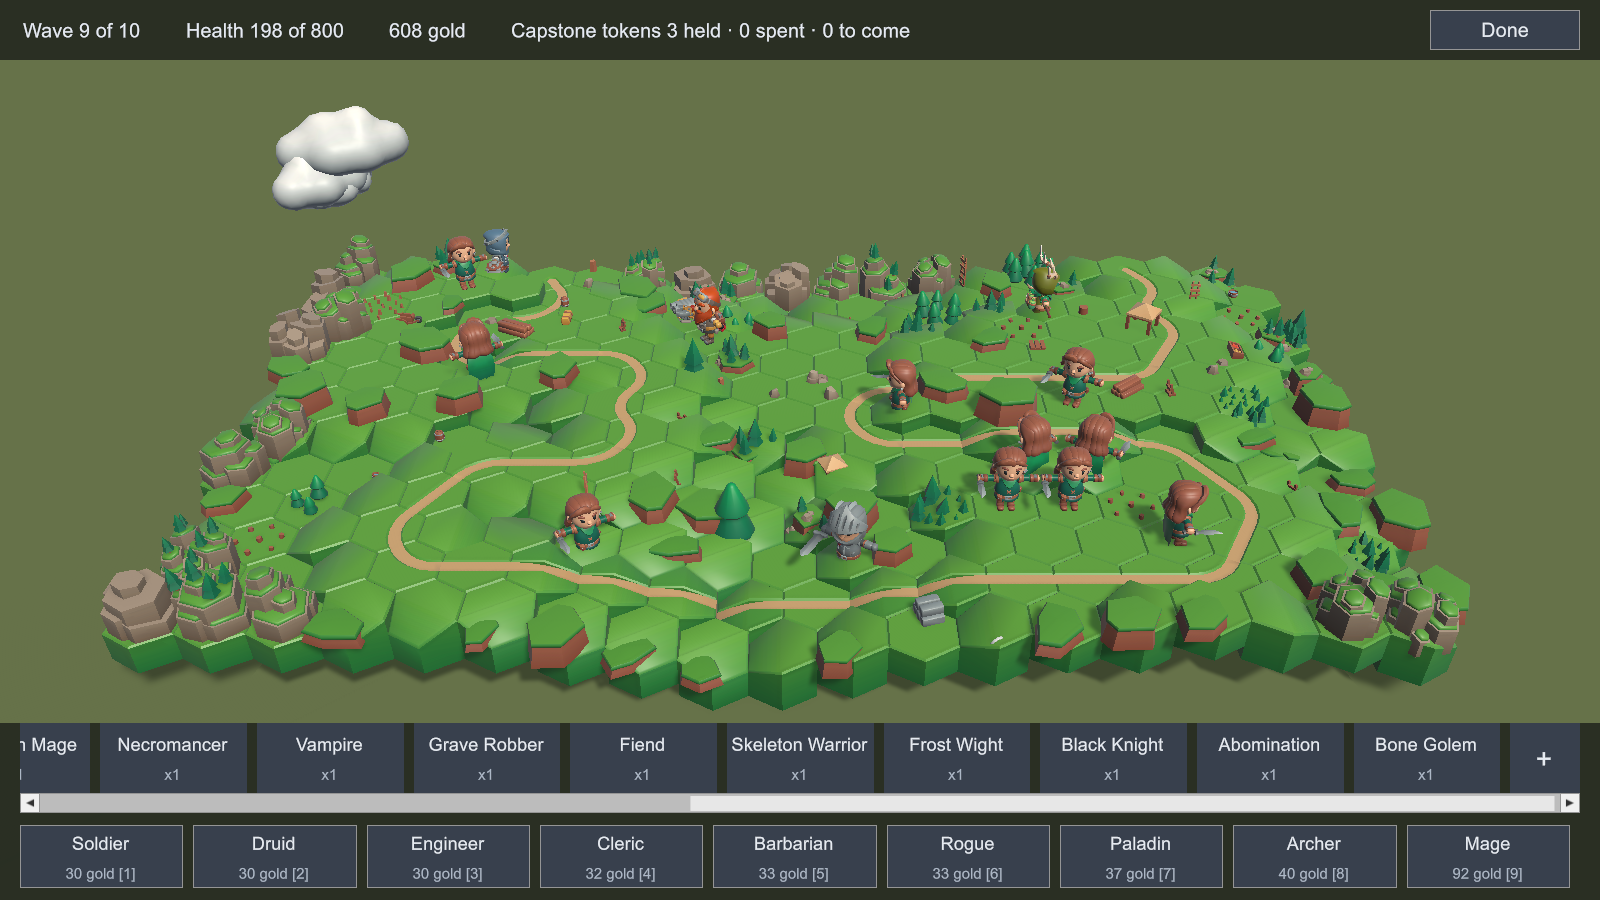
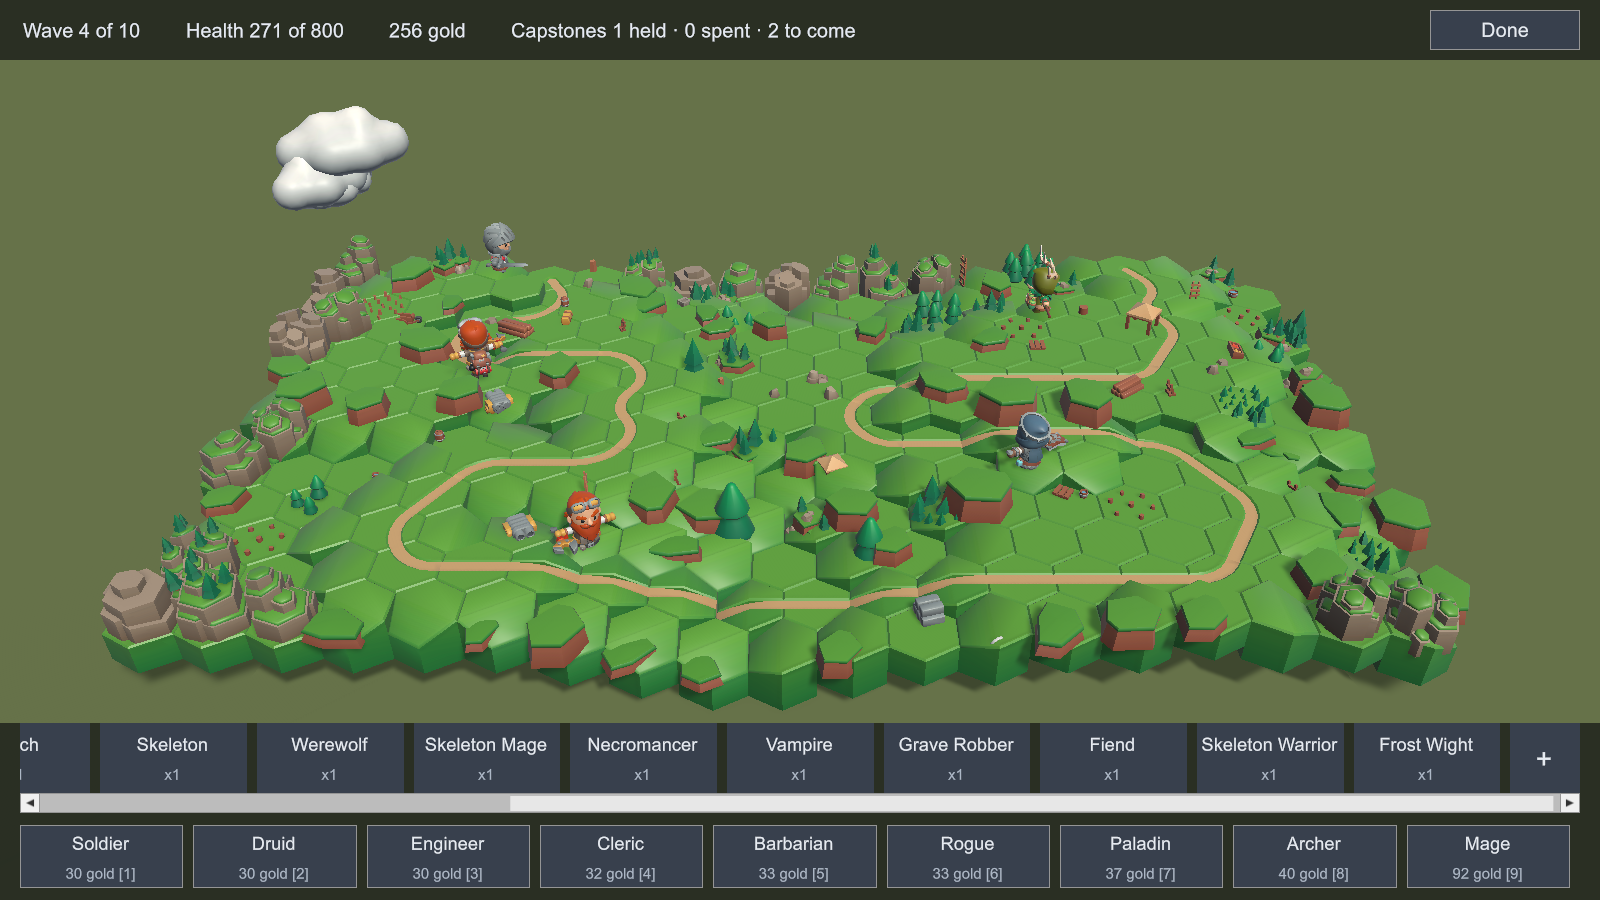
The five overflow sheets are re-shot at wave 4, the last round the sim's own bot composes, and the docs gate is green again
check-docs.ps1 has been red on main since 3459450d: the five sheets in
docs/chrome/overflows/ were drawn from content 2F5438C884EF6856 and
ae3b5922 moved content/units.txt to 0D3C9E832B11C66C. That commit could
not re-capture them -- capture-chrome-overflows.ps1 plays
CoverThenUpgradeBot forward to wave 9, and under the signed windup and
backswing table the bot loses the board committing wave 4 (0 of 800) --
and #297 left three options open: exempt the five as decision records,
stay red until a run reaches wave 9, or re-shoot at wave 4.

RE-SHOT AT WAVE 4. It is the fix the gate's own last line asks for --
"edit the document, or move the thing it describes; do not relax the
check" -- and wave 4 still shows all three signed answers: a token is in
hand, granted at wave 3, so the ladder offers the Consecration for it;
the bar overflows and scrolls, fourteen boxes ending at the Frost Wight
where wave 9 held seventeen, since the round does not offer that shot
the three dearest creeps; and the header's fourth field reads 1 held,
0 spent, 2 to come. Health is 271 of 800 at wave 4 where it was 198 at
wave 9. Exempting would have kept the seventeen and the three tokens in
the pictures at the price of the check no longer asking these sheets
the question they exist to answer, and the sheets render the real roster
and prices. Sam asked for the gate fixed on 13 September 2026; the
choice between the two green routes is this commit's, and the other one
[…]

diff --git a/docs/chrome/overflows/README.md b/docs/chrome/overflows/README.md
@@ -17,11 +17,11 @@ records them:
 
 | sheet | what it shows | what was signed |
 |---|---|---|
-| `wave-bar.png` | wave 9, seventeen creeps and the empty box | **The boxes scroll sideways.** A horizontal `ScrollView`, the scroller under the boxes once they overflow, the empty box scrolled into view on every redraw. A holding answer: the chrome as a whole waits on a direction |
-| `offer.png` | wave 9, a Bishop's ladder open | **The price beneath the name.** A rung is two lines, 64 tall, the name at 18 over the price at 15; the panel stays 208 wide and centred on its hex |
+| `wave-bar.png` | wave 4, every creep the round offers and the empty box | **The boxes scroll sideways.** A horizontal `ScrollView`, the scroller under the boxes once they overflow, the empty box scrolled into view on every redraw. A holding answer: the chrome as a whole waits on a direction |
+| `offer.png` | wave 4, a Bishop's ladder open | **The price beneath the name.** A rung is two lines, 64 tall, the name at 18 over the price at 15; the panel stays 208 wide and centred on its hex |
 | `tokens-w2.png` | wave 2, a Bishop standing, no token granted yet | **A fourth header field after the gold**: *Capstone tokens 0 held · 0 spent · 3 to come* as the sheet was drawn; the shipped field reads *Capstones 0 held · 0 spent · 3 to come* since the 13 September respelling, and the sheets predate it. This is the moment the ticket named — a ladder that opens on nothing — and the header now says why |
-| `tokens-w9.png` | wave 9, three held, the ladder open | the same field with a token to spend |
-| `tokens-w9-spent.png` | wave 9, the Consecration bought this round | the same field with one spent, read off the composed round the way the gold is |
+| `tokens-w4.png` | wave 4, one held, the ladder open | the same field with a token to spend |
+| `tokens-w4-spent.png` | wave 4, the Consecration bought this round | the same field with one spent, read off the composed round the way the gold is |
 
 The fourth place, a beside prop on an occupied tile, is a board question and lives in
 [`docs/frames/beside-props/`](../../frames/beside-props/README.md).
@@ -36,10 +36,26 @@ capture **plays the rounds before it** through the loop's own `Commit` and `GoOn
 still cover, cheapest first. A shot also carries `upgrade`, a path of rungs the placed tower is climbed
 through, because a Bishop is climbed to, not placed. See `UiPreviewCapture.PlayTo`.
 
-Two facts come off that run and are in every header here: **the bot never spends a token** (three held, none
-spent at wave 9 — it stands no tier-2 rung by then), so the spent state is drawn from a shot that buys the
-Consecration in the round photographed; and **health is 198 of 800 at wave 9**, because the same policy leaks
-three quarters of the pool. Nobody tuned it.
+Two facts come off that run and are in every header here: **the bot never spends a token** (one held, none
+spent at wave 4 — it stands no tier-2 rung by then), so the spent state is drawn from a shot that buys the
+Consecration in the round photographed; and **health is 271 of 800 at wave 4**, because the same policy leaks
+two thirds of the pool in three rounds. Nobody tuned it.
+
+## Why wave 4 and not wave 9
+
+These sheets were drawn at wave 9 until 13 September 2026: the first round with all three tokens granted, and
+the round [#270](https://github.com/ssalter21/tower-defense-game/issues/270) photographed with every one of
+the seventeen creeps in the bar. Under the windup and backswing table
+[#297](https://github.com/ssalter21/tower-defense-game/issues/297) signed that day, the scripted player
+**loses the board committing wave 4** — 0 of 800 — so wave 9 is a round it never composes and the capture
+refuses the shot rather than draw a game the project does not ship. Wave 4 is the last round it does compose,
+and it still shows all three answers: one token is in hand, granted at wave 3, so the ladder offers the
+Consecration; the bar overflows and scrolls, with fourteen boxes rather than seventeen, ending at the Frost
+Wight — the round does not offer that shot the three dearest creeps, the Black Knight, the Abomination and
+the Bone Golem; and the header's fourth field reads *1 held · 0 spent · 2 to come*. What is lost is the full
+bar and the full count. The wave is one number in spec.json, and goes back to 9 when a run reaches it
+again; why the bot stopped surviving — it buys on cooldown, and windup and backswing are a rate-of-fire tax
+nothing prices — is recorded on #297 and as the cost rule's third gap on [docs/roster.md](../../roster.md).
 
 ## What holds the answers
 
